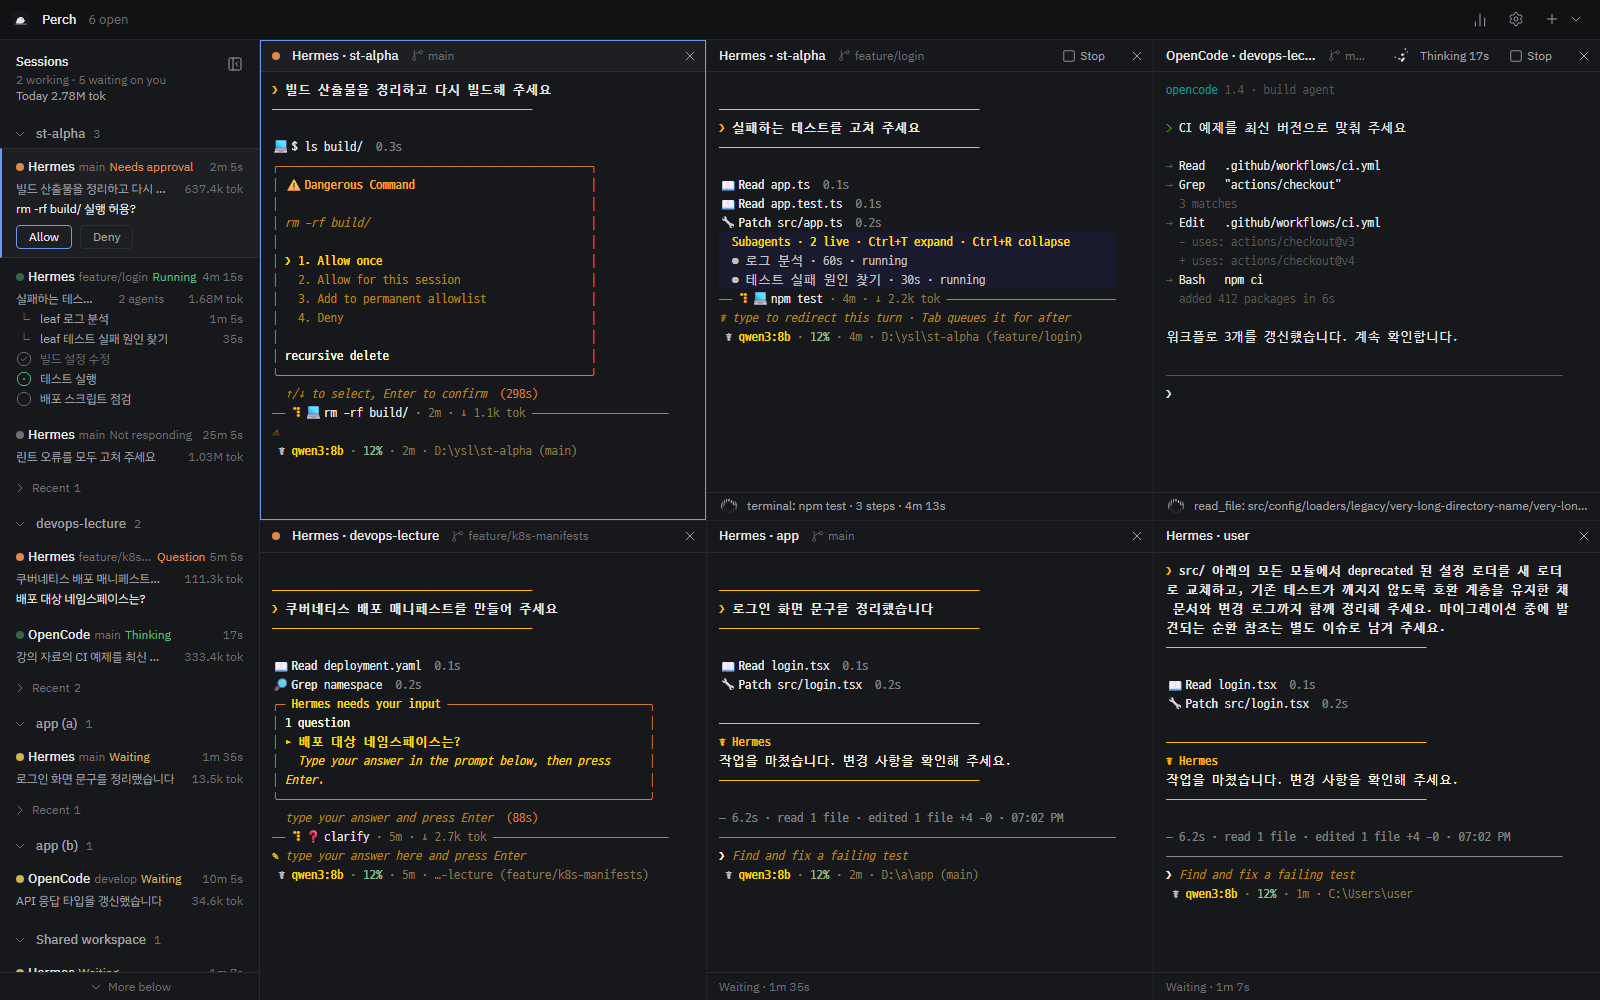
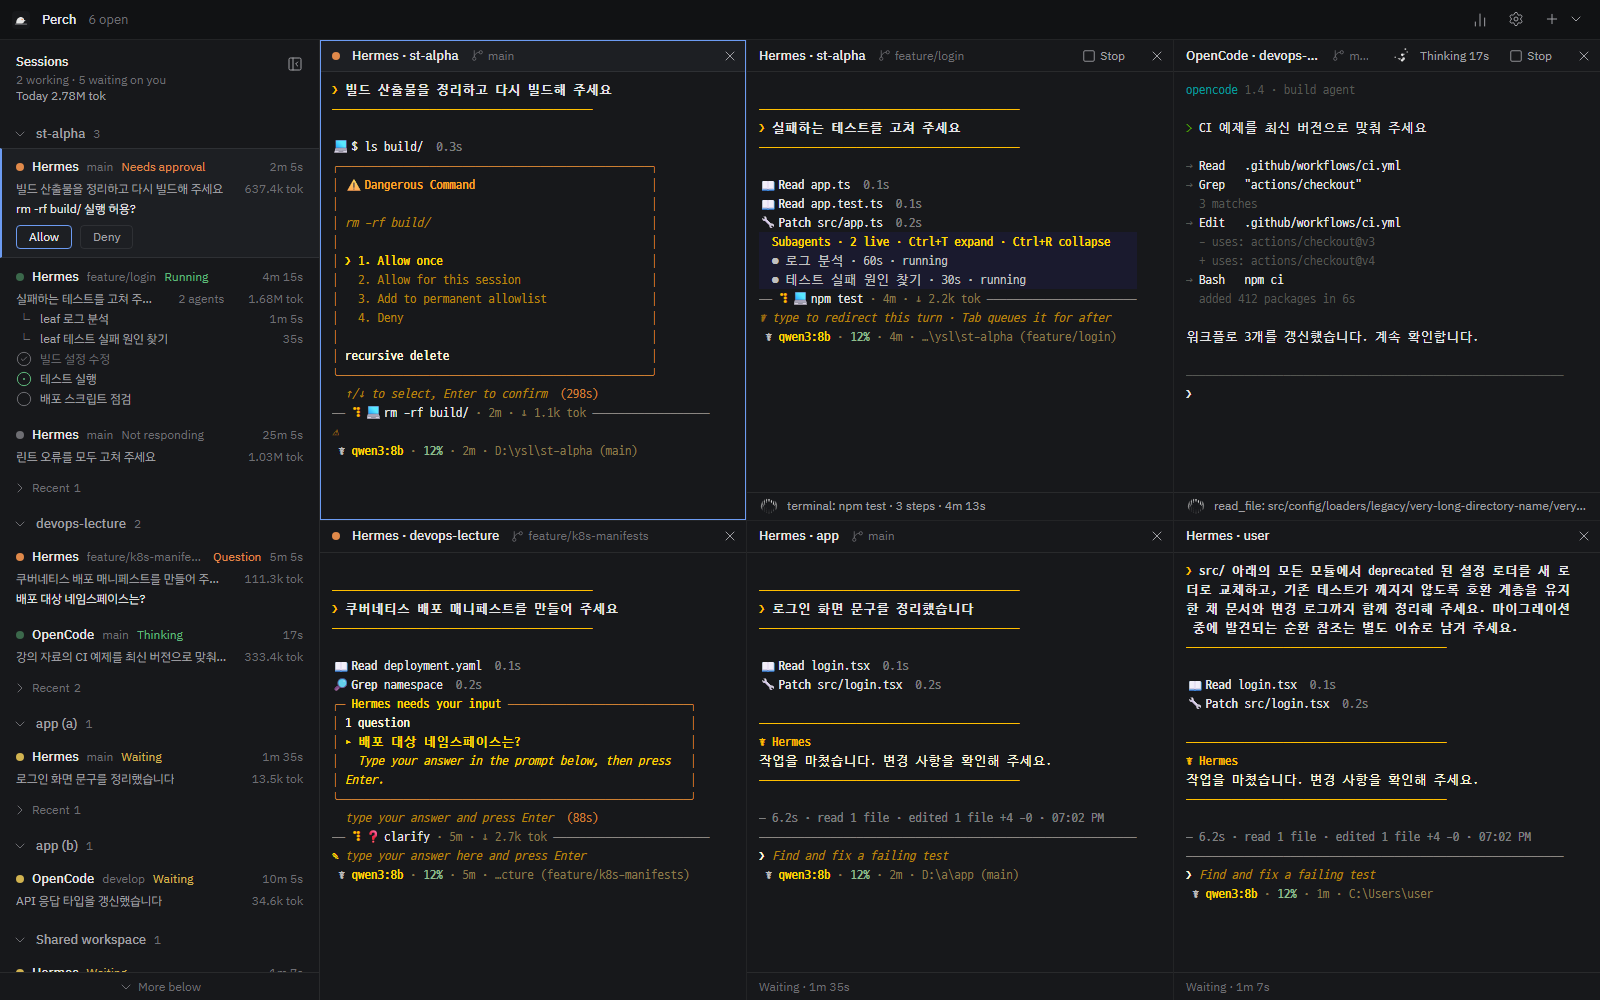
desk: default sidebar width 320px

diff --git a/desk/src/App.css b/desk/src/App.css
@@ -10,7 +10,7 @@ button:focus-visible, .row:focus-visible { outline: 1px solid var(--accent); out
 .main { flex: 1; min-height: 0; display: flex; }
 
 /* sidebar */
-.sidebar { position: relative; flex: none; width: 260px; display: flex; flex-direction: column; background: var(--surface-1); border-right: 1px solid var(--line); min-height: 0; }
+.sidebar { position: relative; flex: none; width: 320px; display: flex; flex-direction: column; background: var(--surface-1); border-right: 1px solid var(--line); min-height: 0; }
 .side-head { flex: none; display: flex; justify-content: space-between; align-items: flex-start; padding: 12px 12px 8px 16px; }
 .side-title { font-weight: 500; }
 .side-sum { color: var(--text-3); font-size: 12px; line-height: 16px; }
@@ -23,7 +23,7 @@ button:focus-visible, .row:focus-visible { outline: 1px solid var(--accent); out
 .row.focused { background: var(--surface-2); border-top-color: var(--line); border-bottom-color: var(--line); border-left-color: var(--accent); }
 .row-top > * { flex: none; }
 .row-top > .row-branch { flex: 0 1 auto; }
-.row-top { display: flex; align-items: center; gap: 4px; min-width: 0; }
+.row-top { display: flex; align-items: center; gap: 8px; min-width: 0; }
 .row-agent { font-weight: 500; }
 .row-state { font-size: 12px; white-space: nowrap; }
 .row-state.ok { color: var(--ok); } .row-state.warn { color: var(--warn); } .row-state.idle { color: var(--idle); } .row-state.muted { color: var(--muted); }

diff --git a/desk/src/lib/uiSettings.ts b/desk/src/lib/uiSettings.ts
@@ -6,7 +6,7 @@ const read = <T>(key: string, fallback: T): T => {
 };
 const write = (key: string, v: unknown) => { try { localStorage.setItem(key, JSON.stringify(v)); } catch { /* ignore */ } };
 
-export const SIDEBAR_DEFAULT = 260;
+export const SIDEBAR_DEFAULT = 320;
 export const clampSidebarWidth = (w: number) => (Number.isFinite(w) ? Math.min(480, Math.max(200, Math.round(w))) : SIDEBAR_DEFAULT);
 export const loadSidebarWidth = () => clampSidebarWidth(read("perch.sidebarWidth", SIDEBAR_DEFAULT));
 export const saveSidebarWidth = (w: number) => write("perch.sidebarWidth", w);

diff --git a/desk/src/lib/uiSettings.test.ts b/desk/src/lib/uiSettings.test.ts
@@ -7,7 +7,7 @@ test("clampSidebarWidth keeps 200..480", () => {
   expect(clampSidebarWidth(100)).toBe(200);
   expect(clampSidebarWidth(300)).toBe(300);
   expect(clampSidebarWidth(900)).toBe(480);
-  expect(clampSidebarWidth(NaN)).toBe(260);
+  expect(clampSidebarWidth(NaN)).toBe(320);
 });
 
 test("groupSummary counts my-turn and working sessions", () => {

diff --git a/README.md b/README.md
@@ -44,7 +44,7 @@ npm test           # 격자, 묶음, 시간 표시 로직 테스트
 - 스크롤바는 스크롤하는 동안에만 나타난다. 패널 아래에 내용이 더 있으면 "아래에 더 있음"이 표시된다.
 - 오른쪽 위 설정(톱니바퀴)에서 터미널 글꼴과 크기(10~24)를 바꿀 수 있다. 바꾸면 바로 적용되고, 다음 실행에도 유지된다.
 - 작업 중인 세션은 칸 헤더의 [중지] 또는 패널 세션 행의 중지 버튼으로 멈출 수 있다.
-- 패널 오른쪽 경계를 끌면 폭이 바뀐다 (200~480px). 더블클릭하면 기본 폭으로 돌아간다.
+- 패널 오른쪽 경계를 끌면 폭이 바뀐다 (200~480px). 기본 폭은 320px이고, 더블클릭하면 기본 폭으로 돌아간다.
 - 패널의 묶음 제목을 누르면 접히거나 펼쳐진다. 접힌 묶음에도 내 차례와 작업중 세션 수가 표시된다.
 - [+]는 설정에서 정한 기본 에이전트와 폴더로 바로 칸을 연다. 옆의 화살표로 다른 에이전트나 폴더를 고를 수 있다.
 - Hermes 칸의 터미널 내용은 실제 Hermes CLI(v0.23.2) 화면을 소스 기준으로 재현한 것이다. 근거는 [desk/HERMES_UI_NOTES.md](desk/HERMES_UI_NOTES.md)에 있다.
